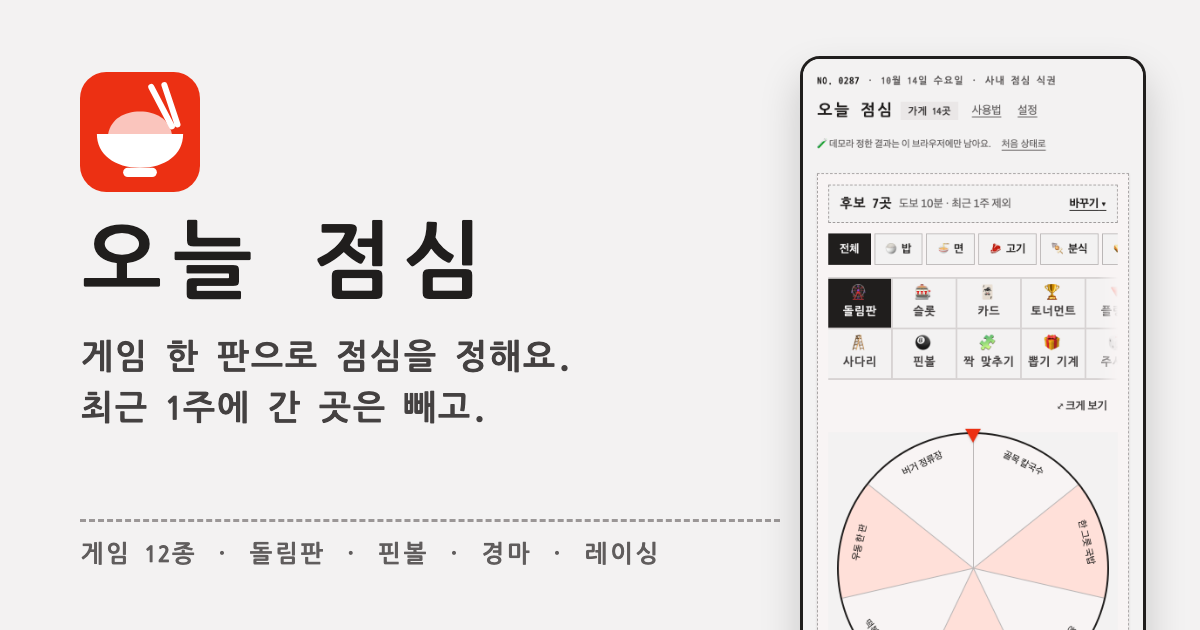
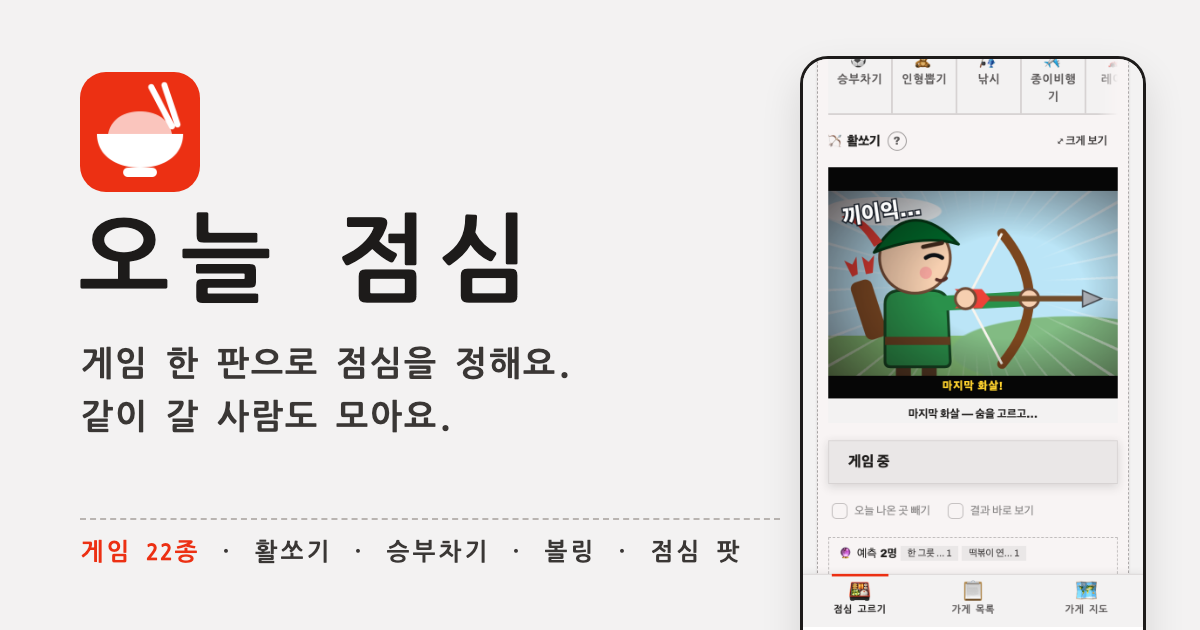
feat: 한 줄 결과에서 바로 결정 · 결정 뒤 알리기 강조, 팟 출발 시각 단추, 링크 미리보기 그림 갱신
- 결과 창을 닫아도 게임 아래 한 줄 결과에 "여기로 결정". 정하면 결과 창을 다시 열고
  "동료에게 알리기" 를 가장 큰 단추로. 2주 동안 결정 기록 3건이라 결정까지 가는 길을 줄인다.
- 좁은 휴대폰(480px 이하)에서 한 줄 결과는 이름 한 줄 + 단추 한 줄.
- 팟 출발 시각: 브라우저 시간 칸("06:20 PM") 대신 10분 간격 단추 8개(lib/party.ts partyTimeSlots).
- og.png 를 게임 22종·활쏘기 컷신·점심 팟으로 새로 찍고, 메신저 캐시를 피하려 주소에 ?v=2.

diff --git a/src/App.tsx b/src/App.tsx
@@ -787,8 +787,9 @@ export default function App() {
           <p className="confirmed" role="status" tabIndex={-1} ref={focusIfLost}>
             오늘 점심으로 정했어요
           </p>
+          {/* 정한 다음 할 일은 같이 갈 사람에게 알리기. 가장 큰 단추로 둔다. */}
+          <ShareButton place={winner} primary />
           <DirectionsLink place={winner} />
-          <ShareButton place={winner} />
           <Button block variant="secondary" onClick={spin} disabled={spinning}>
             그래도 다시 하기
           </Button>
@@ -1230,7 +1231,23 @@ export default function App() {
                       </span>
                     </p>
                     <div className="result-bar__actions">
-                      <Button ref={resultBarRef} onClick={() => setResultOpen(true)}>
+                      {/* 결과 창을 닫으면 결정하려고 창을 다시 열어야 했다. 결정 기록이 거의 안 쌓여(3건, 10/16)
+                          여기서도 바로 정하게 한다. 정한 뒤엔 결과 보기만 남는다. */}
+                      {!confirmed && (
+                        <Button
+                          onClick={() => {
+                            onDecide(winner);
+                            // 결과 창을 열어 "정했어요" 와 큰 알리기 단추를 보여 준다. 다른 곳으로 이미 정해 바꿀지
+                            // 묻는 시트가 뜨는 경우엔 열지 않는다 — 시트 위에 창이 덮인다.
+                            if (!decision || decision.placeId === winner.id) setResultOpen(true);
+                          }}
+                          loading={saving}
+                          disabled={spinning}
+                        >
+                          여기로 결정
+                        </Button>
+                      )}
+                      <Button ref={resultBarRef} variant={confirmed ? 'primary' : 'secondary'} onClick={() => setResultOpen(true)}>
                         결과 보기
                       </Button>
                       {/* 정한 뒤엔 모달과 같은 말로. 여기서만 "다시 하기" 라 오늘 기록이 바뀌는 줄 몰랐다(10/15). */}

diff --git a/src/App.css b/src/App.css
@@ -2984,6 +2984,13 @@ input[aria-invalid='true'] { border-color: var(--color-accent); }
   }
   .result-bar__meta { display: none; }
 }
+/* 좁은 휴대폰: 단추가 셋이라(결정·결과·다시) 이름이 잘린다. 이름 한 줄, 단추 한 줄로. */
+@media (max-width: 480px) {
+  .result-bar { height: auto; flex-wrap: wrap; padding: var(--space-2); }
+  .result-bar__text { flex-basis: 100%; padding-left: var(--space-1); }
+  .result-bar__actions { flex: 1 1 100%; }
+  .result-bar__actions > * { flex: 1; padding-inline: var(--space-2); }
+}
 
 /* 화면 진입 — 탭을 열 때 살짝 올라오며 나타난다(MODUL reveal 프리셋: slow · decel).
    fill 은 backwards — 끝난 뒤 transform 이 남으면 크게 보기(position: fixed)가 패널에 갇힌다. */
@@ -4009,7 +4016,8 @@ button.rc__pos { border: 1px solid transparent; font: inherit; font-size: var(--
 .party-form__menu[aria-pressed='true'] { border-color: var(--color-text); background: var(--color-text); color: var(--color-bg); }
 .party-form__menu:focus-visible { outline: 2px solid var(--color-accent); outline-offset: 2px; }
 .party-form__pair { display: grid; grid-template-columns: repeat(auto-fit, minmax(150px, 1fr)); gap: var(--space-4); align-items: start; }
-.party-form__time input { min-height: 44px; }
+.party-form__times { display: grid; grid-template-columns: repeat(4, minmax(0, 1fr)); gap: var(--space-2); }
+.party-form__slot { justify-content: center; font-family: var(--app-mono); font-variant-numeric: tabular-nums; }
 .party-form__stepper { display: flex; align-items: center; gap: var(--space-2); }
 .party-form__stepper > button { min-width: 44px; min-height: 44px; font-size: var(--fs-md); }
 .party-form__max { min-width: 3.5em; text-align: center; font-weight: 700; font-family: var(--app-mono); }

diff --git a/index.html b/index.html
@@ -10,7 +10,7 @@
     <link href="https://fonts.googleapis.com/css2?family=Archivo:wght@400;600;800&family=Nanum+Gothic+Coding:wght@400;700&display=swap" rel="stylesheet" media="print" onload="this.media='all'" />
     <noscript><link href="https://fonts.googleapis.com/css2?family=Archivo:wght@400;600;800&family=Nanum+Gothic+Coding:wght@400;700&display=swap" rel="stylesheet" /></noscript>
     <title>오늘 점심</title>
-    <meta name="description" content="게임 한 판으로 점심을 정해요. 최근 1주에 간 곳은 빼고." />
+    <meta name="description" content="게임 한 판으로 점심을 정하고, 같이 갈 사람도 모아요. 최근 1주에 간 곳은 빼고." />
     <meta name="theme-color" content="#f3f2f2" media="(prefers-color-scheme: light)" />
     <meta name="theme-color" content="#161413" media="(prefers-color-scheme: dark)" />
     <link rel="manifest" href="/manifest.webmanifest" />
@@ -18,8 +18,8 @@
     <!-- 링크 미리보기(슬랙·카카오톡). 이미지 주소는 절대 주소여야 해서 빌드할 때 VITE_SITE_URL 을 붙인다(.env). -->
     <meta property="og:type" content="website" />
     <meta property="og:title" content="오늘 점심" />
-    <meta property="og:description" content="게임 한 판으로 점심을 정해요. 최근 1주에 간 곳은 빼고." />
-    <meta property="og:image" content="%VITE_SITE_URL%/og.png" />
+    <meta property="og:description" content="게임 한 판으로 점심을 정하고, 같이 갈 사람도 모아요. 최근 1주에 간 곳은 빼고." />
+    <meta property="og:image" content="%VITE_SITE_URL%/og.png?v=2" />
     <meta property="og:image:width" content="1200" />
     <meta property="og:image:height" content="630" />
     <meta name="twitter:card" content="summary_large_image" />

diff --git a/src/components/Parties.tsx b/src/components/Parties.tsx
@@ -23,6 +23,7 @@ import {
   PHASE_LABEL,
   clampMax,
   defaultPartyTime,
+  partyTimeSlots,
   gameBoard,
   isMember,
   modeLabel,
@@ -343,6 +344,8 @@ interface FormProps {
 
 function PartyForm({ busy, problem, onSubmit, onCancel }: FormProps) {
   const [category, setCategory] = useState<string | null>(null);
+  // 시간 칸은 폼을 연 순간 기준으로 한 번 만든다. 열어 둔 채 시각이 지나면 보낼 때 검사가 잡는다.
+  const [slots] = useState(() => partyTimeSlots());
   const [time, setTime] = useState(() => defaultPartyTime());
   const [max, setMax] = useState(PARTY_DEFAULT_MAX);
   const [memo, setMemo] = useState('');
@@ -371,16 +374,23 @@ function PartyForm({ busy, problem, onSubmit, onCancel }: FormProps) {
           ))}
         </div>
       </fieldset>
+      <fieldset className="party-form__field">
+        <legend>출발 시각</legend>
+        <div className="party-form__times">
+          {slots.map((t) => (
+            <button
+              key={t}
+              type="button"
+              className="party-form__menu party-form__slot"
+              aria-pressed={time === t}
+              onClick={() => setTime(t)}
+            >
+              {t}
+            </button>
+          ))}
+        </div>
+      </fieldset>
       <div className="party-form__pair">
-        <Input
-          label="출발 시각"
-          type="time"
-          step={300}
-          required
-          value={time}
-          onChange={(e) => setTime(e.target.value)}
-          fieldProps={{ className: 'party-form__time' }}
-        />
         <fieldset className="party-form__field">
           <legend>최대 인원</legend>
           <div className="party-form__stepper">

diff --git a/src/components/ShareButton.tsx b/src/components/ShareButton.tsx
@@ -12,7 +12,14 @@ const NOTE: Record<ShareResult, string> = {
 // 데모는 기록이 보낸 사람 브라우저에만 있어, 앱 주소를 보내면 받은 사람은 빈 화면을 본다. 가게 링크만 보낸다.
 const APP_URL = () => (import.meta.env.VITE_DEMO === '1' ? null : window.location.origin);
 
-export function ShareButton({ place }: { place: Pick<Place, 'name' | 'category' | 'sub' | 'walkMin' | 'lat' | 'lng' | 'kakaoPlaceId'> }) {
+export function ShareButton({
+  place,
+  primary = false,
+}: {
+  place: Pick<Place, 'name' | 'category' | 'sub' | 'walkMin' | 'lat' | 'lng' | 'kakaoPlaceId'>;
+  /** 결정한 직후처럼 알리기가 다음 할 일일 때. */
+  primary?: boolean;
+}) {
   const [result, setResult] = useState<ShareResult | null>(null);
 
   useEffect(() => {
@@ -25,8 +32,8 @@ export function ShareButton({ place }: { place: Pick<Place, 'name' | 'category' 
     <div className="share">
       <Button
         block
-        size="sm"
-        variant="secondary"
+        size={primary ? 'lg' : 'sm'}
+        variant={primary ? 'primary' : 'secondary'}
         onClick={async () => setResult(await sharePlace(shareMessage(place, APP_URL())))}
       >
         📤 동료에게 알리기

diff --git a/src/lib/party.ts b/src/lib/party.ts
@@ -79,6 +79,20 @@ export function defaultPartyTime(now: Date = new Date()): string {
   return `${String(Math.floor(next / 60)).padStart(2, '0')}:${String(next % 60).padStart(2, '0')}`;
 }
 
+/**
+ * 출발 시각 칸. 브라우저 시간 입력칸은 기기 언어에 따라 "06:20 PM" 처럼 나와(10/15) 단추로 고르게 한다.
+ * 점심 전(11:20 전)이면 11:30 부터, 아니면 지금부터 10분 뒤 칸부터 10분 간격. 23:50 을 넘지 않는다.
+ * defaultPartyTime 이 늘 이 안에 있다.
+ */
+export function partyTimeSlots(now: Date = new Date(), count = 8): string[] {
+  const m = nowMinutesKST(now);
+  const first = m < 11 * 60 + 20 ? 11 * 60 + 30 : Math.ceil((m + 10) / 10) * 10;
+  const out: string[] = [];
+  for (let t = first; out.length < count && t <= 23 * 60 + 50; t += 10)
+    out.push(`${String(Math.floor(t / 60)).padStart(2, '0')}:${String(t % 60).padStart(2, '0')}`);
+  return out;
+}
+
 /** 보내기 전 검사. 문제가 없으면 null, 있으면 사람이 읽을 한 마디. */
 export function partyInputProblem(input: PartyInput, now: Date = new Date()): string | null {
   if (!(CATEGORIES as readonly string[]).includes(input.category)) return '메뉴를 골라 주세요';

diff --git a/src/lib/party.test.ts b/src/lib/party.test.ts
@@ -10,6 +10,7 @@ import {
   partyCandidates,
   partyInputProblem,
   partyPhase,
+  partyTimeSlots,
   readGame,
   readParty,
   sortParties,
@@ -182,5 +183,24 @@ describe('팟 게임판', () => {
     }
     // 40곳 중 30곳이니 마지막 가게도 대략 3/4 확률로 들어간다.
     expect(lastSeen).toBeGreaterThan(100);
+  });
+});
+
+describe('출발 시각 칸', () => {
+  it('점심 전이면 11:30 부터 10분 간격, 기본값 11:50 이 들어 있다', () => {
+    const slots = partyTimeSlots(kst(10, 5));
+    expect(slots).toEqual(['11:30', '11:40', '11:50', '12:00', '12:10', '12:20', '12:30', '12:40']);
+    expect(slots).toContain(defaultPartyTime(kst(10, 5)));
+  });
+
+  it('점심 시간엔 지금부터 10분 뒤 칸부터', () => {
+    const slots = partyTimeSlots(kst(12, 3));
+    expect(slots[0]).toBe('12:20');
+    expect(slots[0]).toBe(defaultPartyTime(kst(12, 3)));
+    for (const t of slots) expect(partyInputProblem({ category: '면', time: t, max: 4, memo: '' }, kst(12, 3))).toBeNull();
+  });
+
+  it('밤 늦게는 23:50 에서 끊는다', () => {
+    expect(partyTimeSlots(kst(23, 25))).toEqual(['23:40', '23:50']);
   });
 });

diff --git a/src/components/parties.test.tsx b/src/components/parties.test.tsx
@@ -124,7 +124,13 @@ describe('점심 팟', () => {
     fireEvent.click(screen.getByRole('button', { name: '팟 모으기' }));
     const sheet = screen.getByRole('dialog', { name: '점심 팟 모으기' });
     fireEvent.click(within(sheet).getByRole('button', { name: /밥/ }));
-    fireEvent.change(within(sheet).getByLabelText('출발 시각'), { target: { value: '09:00' } });
+    // 시각은 단추로 고른다(브라우저 시간 칸은 "06:20 PM" 처럼 나왔다). 고른 칸이 기본으로 눌려 있다.
+    const slots = within(within(sheet).getByRole('group', { name: '출발 시각' })).getAllByRole('button');
+    expect(slots.length).toBeGreaterThan(1);
+    expect(slots.filter((b) => b.getAttribute('aria-pressed') === 'true')).toHaveLength(1);
+    fireEvent.click(slots[0]);
+    // 폼을 연 채로 그 시각이 지나 버렸다.
+    vi.setSystemTime(NOW.getTime() + 12 * 60 * 60 * 1000);
     await act(async () => {
       fireEvent.click(within(sheet).getByRole('button', { name: '팟 열기' }));
     });

diff --git a/README.md b/README.md
@@ -37,6 +37,7 @@
 - **최근 방문 제외** — 최근 1주에 간 곳은 빼되, 후보가 5곳보다 적어지면 오래된 방문부터 도로 넣고 "다시 넣음"으로 따로 표시합니다.
 - **지도** — 처음에는 회사 위치부터 정합니다. 건물 이름·주소로 찾거나, 내 위치나 지도를 눌러 정하고, 정하기 전에는 가게 찾기·넣기가 보이지 않습니다. 정한 뒤에는 지도를 한 번 누르면 그 자리 근처 음식점(카카오 장소 검색)과 "여기에 직접 넣기"가 뜹니다. 검색으로 넣어도 됩니다. 결과에서 카카오맵 도보 길찾기를 바로 엽니다. 가게가 몰린 곳은 멀리 볼 때 "N곳" 하나로 묶고, 최근 1주에 다녀온 곳은 흐리게 그립니다. 고른 가게는 카카오맵 장소 페이지(메뉴·사진·영업시간)로 바로 엽니다. 가게 카드·목록·결과에는 "가게 이름 + 동"으로 다음 이미지 검색에서 찾은 사진 한 장을 보여 줍니다. 카카오 장소 API 는 사진을 주지 않아서 검색으로 대신했고, 그래서 실제 가게와 다를 수 있습니다. REST 키는 브라우저에 두지 않고 Vercel 서버 함수(`api/photo.js`)에만 둡니다.
 - **첫 방문 안내** — 처음 들어오면 설명하는 곳만 밝히는 5단계 안내(카테고리 칩 → 게임 고르기 → 돌리기 → 목록·지도)가 뜹니다. 한 번 보면 다시 뜨지 않고, 머리말의 "사용법"으로 언제든 다시 봅니다.
+- **결정과 알리기** — 결과 창을 닫아도 게임 아래 한 줄 결과에서 바로 "여기로 결정"을 누를 수 있습니다. 정하면 결과 창이 다시 열리고 "동료에게 알리기"가 가장 큰 단추로 나옵니다. 결정 기록이 2주 동안 3건에 그쳐, 결정까지 가는 길을 줄였습니다.
 - **판 옵션** — 실행 단추 아래 두 가지를 켤 수 있습니다. "오늘 나온 곳 빼기"는 이 브라우저에서 오늘 게임이 뽑은 가게를 다음 판 후보에서 빼고, 남는 곳이 2곳보다 적으면 처음부터 다시 돕니다. 후보가 적으면 균등 추첨이어도 몇 판 안에 같은 곳이 또 나와 "특정 집만 나온다"로 읽혀서 넣었습니다. "결과 바로 보기"는 연출 없이 마지막 장면과 결과만 보여 줍니다. 둘 다 당첨 확률은 바꾸지 않습니다.
 - **설정** — 머리말의 설정에서 효과음(게임마다 다른 합성음, 기본 끔)과 화면 테마(자동·밝게·어둡게)를 고릅니다. 소리 파일 없이 Web Audio 로 만듭니다.
 - **같이 쓰는 장치** — 동료 예측(맞힌 사람 표시), 동료에게 알리기(공유 시트·클립보드), 이번 달 기록과 뱃지. 셋 다 당첨에는 영향이 없습니다.
@@ -52,7 +53,7 @@
 
 ## 점심 팟 — 카테고리 모집 · 익명 아바타
 
-점심 고르기 탭의 예측 아래(데스크톱은 오른쪽 칸, 휴대폰은 게임 아래)에 오늘 열린 팟이 보입니다. 누구나 "팟 모으기"로 메뉴(밥·면·고기·분식·빵·양식), 출발 시각(KST, 기본 11:50), 최대 인원(2~10명, 기본 4명), 한 줄 메모(40자)를 정해 팟을 엽니다. 다른 사람은 참여하거나 나가고, 팟을 연 사람(방장)은 마감·다시 모으기·취소를 합니다. 인원이 차면 "꽉 찼어요", 출발 시각이 지나면 "출발했어요"로 바뀝니다.
+점심 고르기 탭의 예측 아래(데스크톱은 오른쪽 칸, 휴대폰은 게임 아래)에 오늘 열린 팟이 보입니다. 누구나 "팟 모으기"로 메뉴(밥·면·고기·분식·빵·양식), 출발 시각(KST 10분 간격 단추 8개, 기본 11:50), 최대 인원(2~10명, 기본 4명), 한 줄 메모(40자)를 정해 팟을 엽니다. 다른 사람은 참여하거나 나가고, 팟을 연 사람(방장)은 마감·다시 모으기·취소를 합니다. 인원이 차면 "꽉 찼어요", 출발 시각이 지나면 "출발했어요"로 바뀝니다.
 
 이름은 어디에도 없습니다. 기기마다 "배고픈 너구리 🦝"처럼 형용사 20개 × 동물 20개 중 하나를 그날 하루 동안 보여 주고, 날이 바뀌면 바꿉니다. 아바타는 익명 uid 와 날짜의 해시로 화면이 계산하므로 저장하지 않습니다(`src/lib/avatar.ts`). 같은 팟에서 이름이 겹치면 뒤 사람에 번호를 붙입니다.
 
@@ -112,7 +113,7 @@ pnpm dev:demo       # Firebase 없이 데모 데이터로 실행
 
 ## 검증
 
-- Vitest 단위·컴포넌트 테스트 841개 — 경주는 후보 수·당첨·시드 조합마다 당첨이 단독 1등인지, 핀볼은 테마별로 판이 대칭이고 모든 구슬이 완주하는지, 폭탄은 당첨 자리에 정확히 도착하는지, 풍선은 당첨 하나만 끝까지 남는지, 낚시는 마지막에 걸리는 물고기가 당첨인지, 활쏘기는 마지막 화살이 당첨 과녁에, 컬링은 당첨 스톤이 버튼에 가장 가깝게, 종이비행기는 당첨 비행기만 테이블에 내려앉는지 확인합니다.
+- Vitest 단위·컴포넌트 테스트 845개 — 경주는 후보 수·당첨·시드 조합마다 당첨이 단독 1등인지, 핀볼은 테마별로 판이 대칭이고 모든 구슬이 완주하는지, 폭탄은 당첨 자리에 정확히 도착하는지, 풍선은 당첨 하나만 끝까지 남는지, 낚시는 마지막에 걸리는 물고기가 당첨인지, 활쏘기는 마지막 화살이 당첨 과녁에, 컬링은 당첨 스톤이 버튼에 가장 가깝게, 종이비행기는 당첨 비행기만 테이블에 내려앉는지 확인합니다.
 - 공정성 검사 — `FAIRNESS=1 pnpm test` 로 당첨 추첨을 후보 2·5·7·18곳에서 20만 번씩 돌려 카이제곱 검정(유의수준 0.001)으로 균등한지, 핀볼 공 개수 비율이 확률에 그대로 반영되는지 확인합니다. 사다리·플링코·주사위·경주는 무작위 배치마다 당첨에 도착하는지 봅니다. 평소에는 고정 시드로 가볍게 한 번 돕니다.
 - Firestore 규칙 테스트 53개 — 날짜가 KST 오늘인지, 자기 예측만 쓰는지, 가게는 지울 수 없는지, 점심 팟에서 자기 자신만 참여·나가기를 하고 인원 상한·마감·출발 시각을 넘지 못하는지, 게임 결과는 방장이 한 번만 남기는지를 에뮬레이터에서 확인합니다.
 - 화면을 바꿀 때마다 Playwright 스크립트로 휴대폰(390px)·데스크톱(1280px)에서 결정까지 돌려 보고 콘솔 오류가 없는지 확인했습니다.
